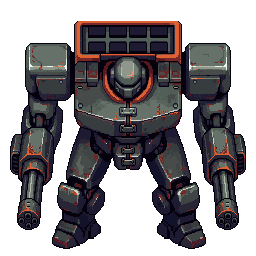
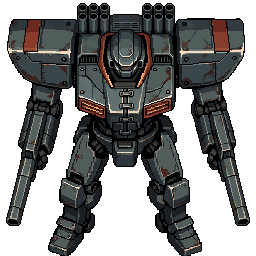
합체 256 전투 스틸 생성·승인 — robot_fusion_256.png 교체
그전까지 이 자리는 512 승인본의 NEAREST 축소본(29290d8 "참조본")이었다.
15-3에는 승인본 절이 없고 6-2는 "256 · 로봇 A 앵커 그대로"라 적고 있어,
256 전투 스틸이 생성된 적이 없다는 것이 2026-09-07 실측에서 드러났다.
W05 5-1의 "앵커로 걸 승인본이 어느 세대인지 확실해야 한다"가 정확히 이 자리다.

- 1차 f7a36257 불합격(구현 자체 판정) — 시점 정면 · 검은 테두리
- 2차 47cdb935 md5 b3ef28a8 사용자 승인
- 앵커 세대 확인: robot_a 가 raw = 리포 = 15-1 7-5 서명본으로 셋 다 ecffb0dec30f

프롬프트 전문을 Docs/art_prompts_260907.md 에 남긴다 — 09-06에 세션 로그에만 두었다가
통째로 잃은 그 사고를 되풀이하지 않기 위해서다(지침 §7).

.meta 는 커밋하지 않는다.

diff --git a/Docs/art_prompts_260907.md b/Docs/art_prompts_260907.md
@@ -1,0 +1,54 @@
+# 생성 프롬프트 기록 — 2026-09-07
+
+> **왜 리포에 두는가.** 프롬프트 전문을 세션 로그에만 두었다가 2026-09-06에 통째로 잃었다
+> (`260906_W04` 2-8). 세션 임시 자리에 있던 것은 다음 세션에 없다 — 지침 §7.
+
+## 합체 로봇 256 전투 스틸
+
+`260906_W05` 5-1이 지목한 선행. **그전까지 `robot_fusion_256.png`은 512 승인본의 NEAREST
+축소본(`29290d8` 「참조본」)이었고, 256 전투 스틸은 생성된 적이 없었다.**
+
+| 항목 | 값 |
+|---|---|
+| 도구 | `create_image_pro` · 256×256 · `no_background=true` · 후보 1 (170 초과는 언제나 하나) |
+| 앵커 | 로봇 A 승인본 — `raw.githubusercontent.com/.../Art/Units/robot_a.png` (md5 `ecffb0dec30f`) |
+| 앵커 세대 확인 | raw = 리포 = 15-1 7-5 서명본, 셋이 같은 md5다 |
+| 1차 | job `f7a36257` · md5 `d854f6c4` · **불합격(구현 자체 판정)** — 시점이 정면 쪽 · 검은 테두리 |
+| 2차 | job `47cdb935` · md5 `b3ef28a8` · **사용자 승인 (2026-09-07)** |
+| 비용 | 20 + 20 = 40 생성 |
+
+### 1차에서 2차로 바뀐 것 둘
+
+1. `SILHOUETTE` 앞에 `seen from above,`를 붙여 **시점 서술을 세 절로** 만들었다.
+   15-3 6-1이 「결과가 정면으로 나오면 세 번째 자리를 만든다」로 미리 적어 둔 처방이며,
+   근거는 캐릭터 아트 요청 문서(15) 규칙 2 「절이 많은 쪽이 이긴다」다.
+2. `EDGES`를 로봇 A 승인본 프롬프트(15-1 7-1)와 같은 문안으로 늘렸다 —
+   `no black outline anywhere, the silhouette meets the transparent background directly`.
+   15-3 6-1은 앞 절만 갖고 있었다. 규칙 9 「금지문은 오히려 불러온다」에 걸리는 자리다.
+
+### 2차 프롬프트 전문
+
+```
+Pixel art fused battle mech seen from a HIGH TOP-DOWN camera, looking down at the machine from above and slightly in front, alone on a fully transparent background,
+reference image 1 is the approved player robot sprite - match its art style, shading and surface finish exactly, this is that same machine locked together with its partner frame into one larger unit
+
+VIEWING ANGLE: we are above the machine. We see the TOP surfaces of its shoulders and head. Its front and its back read as different shapes. This is NOT a front view.
+
+seen from above, SILHOUETTE from above: a clear HUMANOID frame, one head, two broad shoulders, two arms, two legs planted wide apart, heavier and wider than either source machine was on its own, the largest allied unit in the game
+
+FUSION: this frame is symmetrical left to right. Both arms end in the straight angular gun barrels of the first machine, reaching forward. A bank of vertical launch tubes from the second machine sits across its back and shoulders, and because the camera is above we look down into their circular mouths as a grid of circles on the flat upper surface. A seam line and locking clamps run down the centre of the torso where the two frames meet.
+
+BUILD: well maintained military hardware, panels that fit cleanly together, worn paint and scuffed edges from long service, thicker plating than a standard frame
+
+COLOR: gunmetal blue-grey steel with a single ORANGE accent along the shoulders and chest
+
+EDGES: no black outline anywhere, the silhouette meets the transparent background directly
+```
+
+`reference_images`의 `usage`: `art style, shading and surface finish - this is the approved player robot sprite`
+
+### 남은 판정 하나
+
+**시점은 2차에서도 정면 쪽이다.** 15-1 7-4 규칙 7이 「각도를 강하게 밀면 강조색을 잃고
+무기가 팔에 묻힌다」로 적어 둔 맞바꿈이며, 로봇 A 승인본도 여덟 번 걸렸다.
+사용자가 이 수준으로 승인했다 — 더 미는 것은 다음에 정한다.

diff --git a/Docs/art_manifest.md b/Docs/art_manifest.md
@@ -15,9 +15,9 @@
 
 `260906_W05` 2-1이 **「옮긴다」**로 판정했다 — 옮기는 것은 임포트 설정을 확정하는 일이 아니고, 그대로 두어 얻는 것이 없기 때문이다. **2026-09-07에 23개 파일을 `Assets/_Project/Art/` 아래로 옮기고 `Docs/art_pending/`을 지웠다.**
 
-## 목록 — 23개 파일
+## 목록 — 24개 파일
 
-**재생성 승인본 22종 + `node_energy`**(재생성 대상이 아니어서 09-04판이 그대로 승인본이나, 측정 세트를 온전하게 하려고 함께 둔 것). 그래서 파일은 23개고 「승인본 22종」과 어긋나지 않는다.
+**재생성 승인본 22종 + `node_energy` + 합체 256 스틸(09-07)**(재생성 대상이 아니어서 09-04판이 그대로 승인본이나, 측정 세트를 온전하게 하려고 함께 둔 것). 그래서 파일은 24개고 「승인본 22종」과 어긋나지 않는다.
 
 | 파일 (`Assets/_Project/Art/` 기준) | md5 | 출처 | job | 비고 |
 |---|---|---|---|---|
@@ -44,6 +44,7 @@
 | `VFX/vfx_specialstrike_a.png` | `a5cbe83a` | `vfx_v2/` | `895e4c86` |  |
 | `VFX/vfx_specialstrike_b.png` | `11d74516` | `vfx_v2/` | `9f1ff31d` |  |
 | `Units/boss.png` | `0f536866` | `gen3/boss_512.png` | `d136d116` | **`boss_512.png`에서 이름을 바꿔 놓았다** — `CombatAssetGenerator.LoadArt`가 `Art/Units/<이름>.png`로 읽기 때문. 캔버스는 512 그대로 |
+| `Units/robot_fusion_256.png` | `b3ef28a8` | `create_image_pro` 2차 | `47cdb935` | **2026-09-07 생성·승인.** 그전까지 이 자리는 512 승인본의 NEAREST 축소본(`29290d8` 「참조본」)이었다 — **256 전투 스틸은 생성된 적이 없었다.** 앵커 = 로봇 A 승인본 |
 
 **품목 열 종의 job 번호는 `items_v3/` 일괄 생성분이라 자산별로 나뉘어 있지 않다** — `battery`만 09-06에 따로 다시 뽑았다. 없는 번호를 지어 적지 않는다.
 
